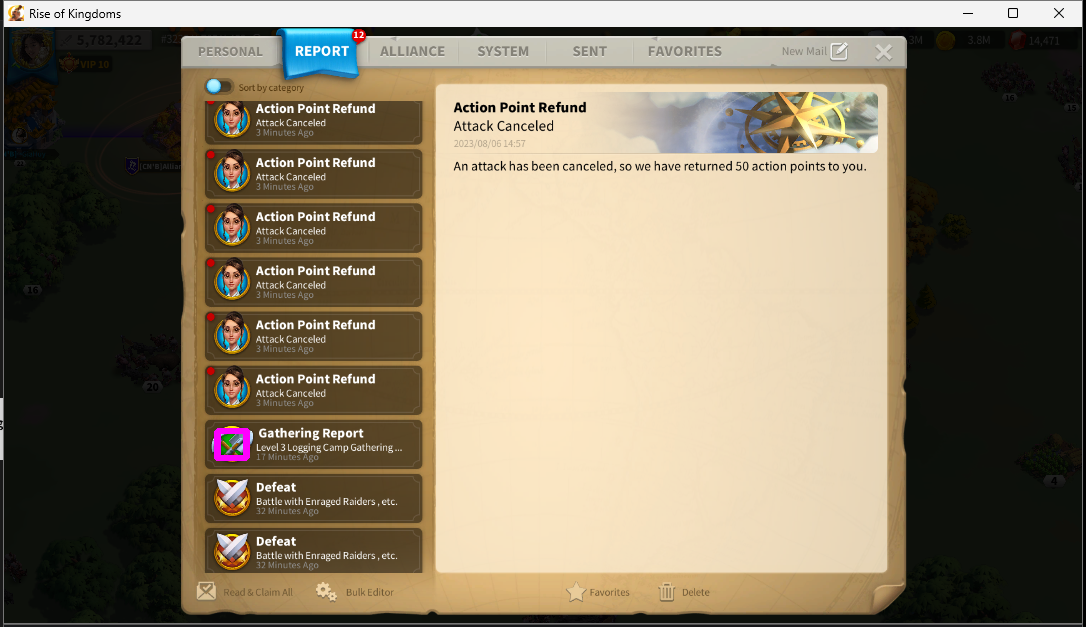
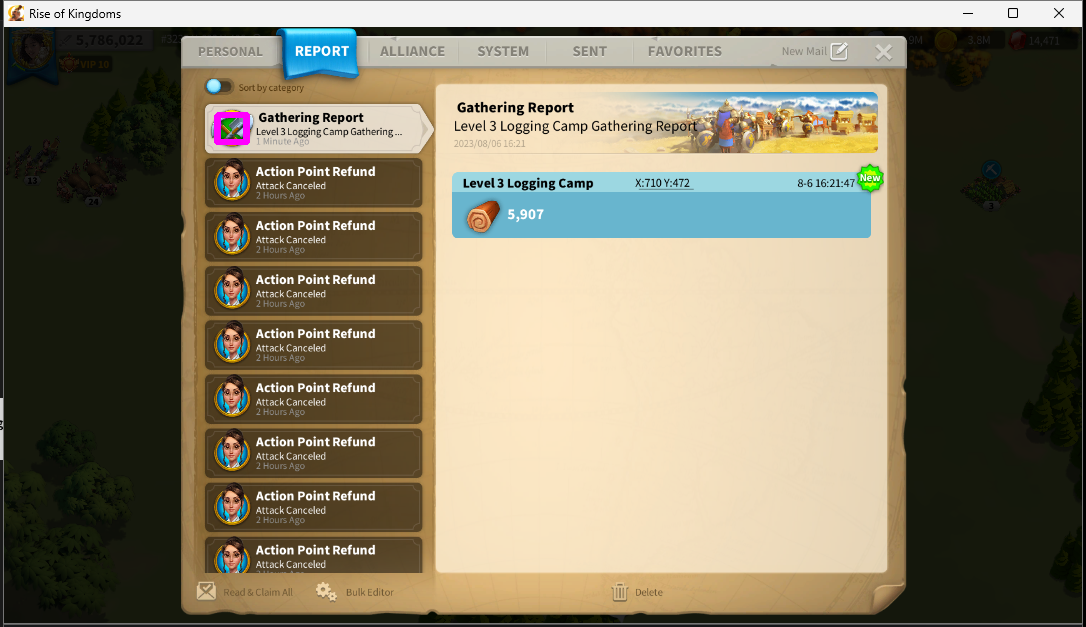
added memory choice to click

Changed region(s): [[0.1823, 0.1212, 0.8204, 0.9091], [0.5166, 0.9394, 0.6381, 0.9697], [0.3039, 0.0303, 0.3343, 0.0909]]

diff --git a/Classes/action_sets.py b/Classes/action_sets.py
@@ -117,7 +117,7 @@ class ActionSets:
         self.machine.add_state("openmsgs", PressKeyAction('z', delay=1), "reportactive")
         self.machine.add_state("reportactive", ManualClickAction(27,8,delay=.2), "gatheringicon")
         self.machine.add_state("gatheringicon", FindAndClickImageAction('Media/gatheringicon.png'), "newicon","clickleftcollumn")
-        self.machine.add_state("clickleftcollumn", ManualClickAction(27,20,delay=.2), "scroll")
+        self.machine.add_state("clickleftcollumn", ManualClickAction(27,20,delay=.2, remember_position=False), "scroll")
         self.machine.add_state("scroll", ManualScrollAction(y_scroll=10), "gatheringicon")
         self.machine.add_state("newicon", FindAndClickImageAction('Media/newicon.png', delay=60), "escape","reportactive")
         self.machine.add_state("escape", PressKeyAction('escape'), "birdview")

diff --git a/Classes/Actions/manual_click_action.py b/Classes/Actions/manual_click_action.py
@@ -4,17 +4,18 @@ from manual_click import ManualClick
 from window_handler import WindowHandler
 
 class ManualClickAction(Action):
-    def __init__(self,x=50,y=50, delay=0):
+    def __init__(self,x=50,y=50, delay=0, remember_position=True):
         self.manual_click = ManualClick()
         self.window_handler = WindowHandler()
         self.delay = delay
         self.window_title = 'Rise of Kingdoms'
         self.x = x
         self.y = y
+        self.remember_position = remember_position
 
 
 
     def execute(self):
         time.sleep(self.delay)
-        self.manual_click.click(self.window_handler.get_window(self.window_title),self.x,self.y)
+        self.manual_click.click(self.window_handler.get_window(self.window_title),self.x,self.y, self.remember_position)
         return True

diff --git a/Classes/manual_click.py b/Classes/manual_click.py
@@ -7,7 +7,7 @@ class ManualClick:
     def __init__(self, threshold=0.65):
         self.threshold = threshold
 
-    def click(self, win, x_percentage, y_percentage):
+    def click(self, win, x_percentage, y_percentage, remember_position=True):
         # click at a specific percentage of the screen with pyautogui
         
         time.sleep(0.1)
@@ -17,5 +17,6 @@ class ManualClick:
         click_y = int(win.top + win.height * y_percentage / 100)
         pyautogui.click(click_x, click_y)
         prev_active_window.activate()
-        pyautogui.moveTo(prev_mouse_x, prev_mouse_y)
+        if remember_position:
+            pyautogui.moveTo(prev_mouse_x, prev_mouse_y)
 
